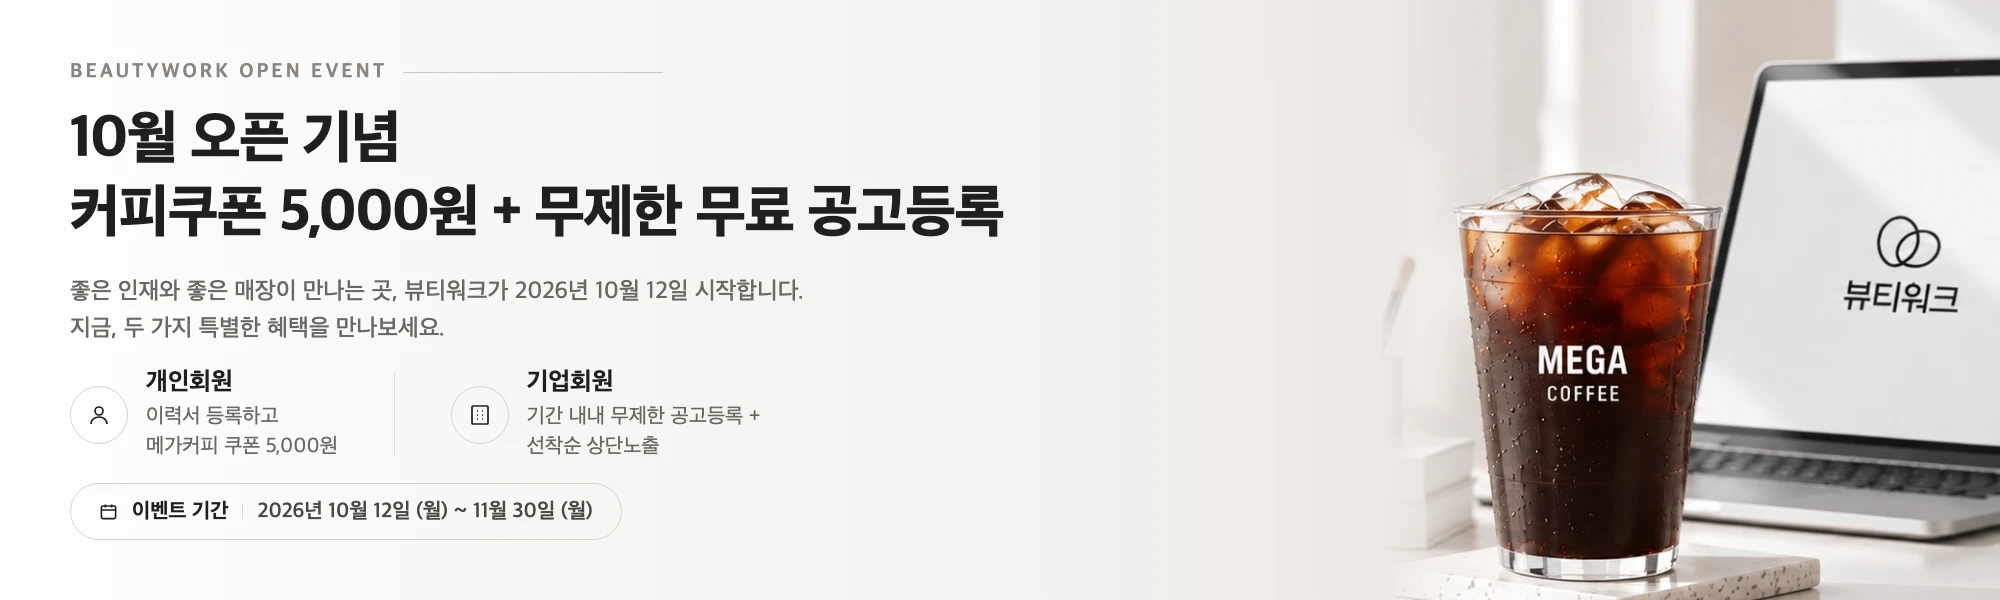
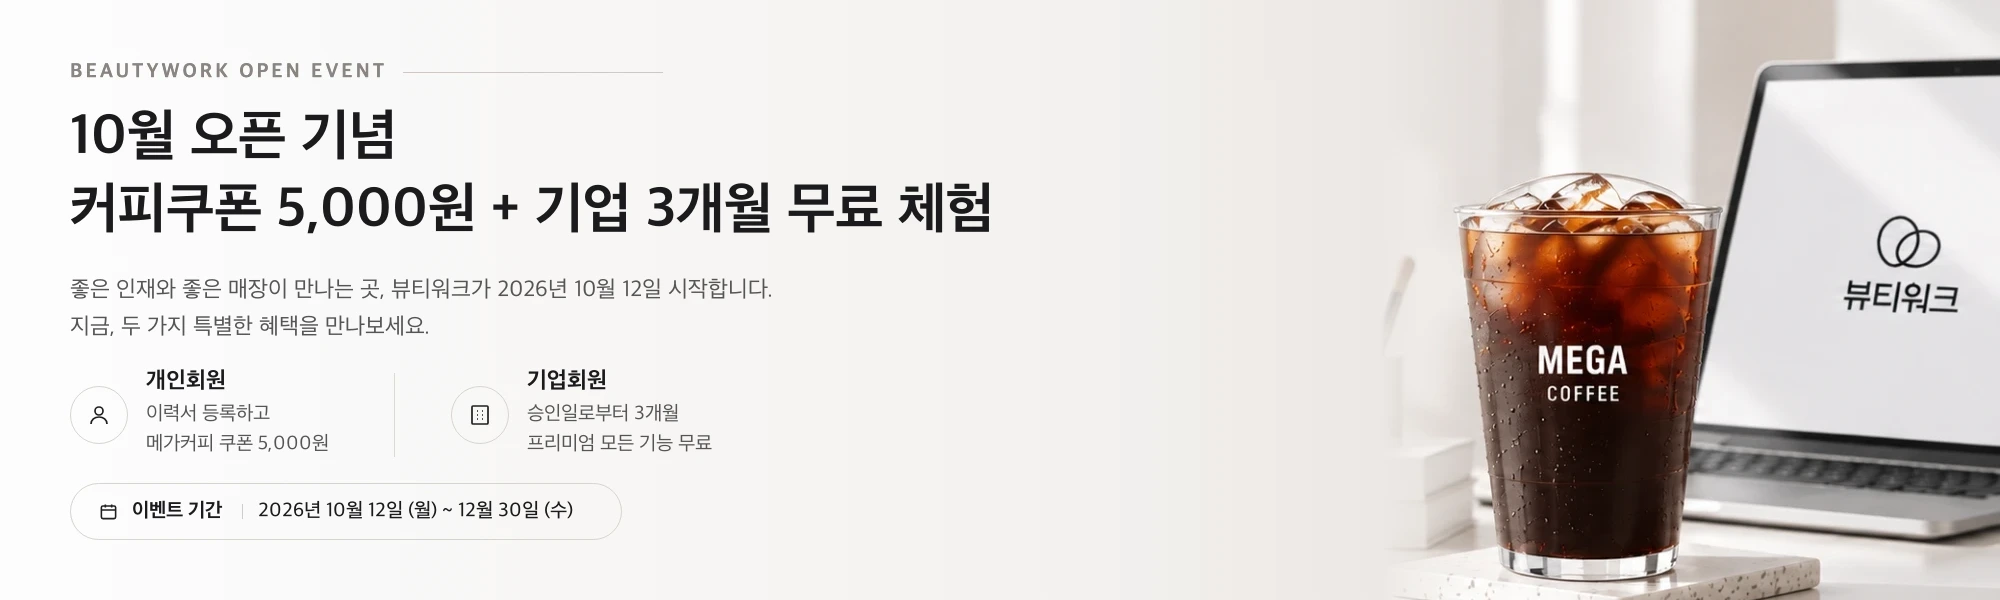
이벤트 문구·배너: 개인·기업 모두 12/30, 기업 승인일부터 3개월 프리미엄 무료, 모바일·PC 배너와 안내 화면 반영, 공지 이전값 백업

diff --git a/components/company/EventDetail.tsx b/components/company/EventDetail.tsx
@@ -31,8 +31,8 @@ const 목록자리 = { 위: 9.2, 높이: 14.8, 왼: 18.4, 오: 2.2 };
 
 const 참여 = [
   { Icon: UserPlus, 머리: "기업회원으로 가입합니다.", 글: "이벤트 기간 안에 가입하셔야 합니다." },
+  { Icon: CheckCircle2, 머리: "가입 승인을 받습니다.", 글: "신청은 따로 없습니다. 승인되는 날부터 혜택이 적용됩니다." },
   { Icon: FileText, 머리: "채용공고를 등록합니다.", 글: "건수 제한 없이 올리실 수 있습니다." },
-  { Icon: CheckCircle2, 머리: "신청은 따로 없습니다.", 글: "올리시는 순간 이벤트 혜택이 적용됩니다." },
 ];
 
 type 공지 = { id: string; title: string; target?: string | null };
@@ -155,8 +155,8 @@ export default function EventDetail({ 머리숨김 = false }: {
       <section className="ev-sec">
         <h3 className="ev-h">유의사항</h3>
         <ul className="pi-warn">
-          <li>이벤트 기간 안에 기업회원으로 가입하신 곳이 대상이에요. 가입 승인이 되면 바로 쓰실 수 있어요.</li>
-          <li>가입일로부터 3개월 동안 {플랜.PREMIUM.name} 상품의 모든 기능을 무료로 체험하실 수 있어요 — {스타트.name} 회원과 달리 건수 제한 없이 공고를 올리고, 인재 열람·제안·채팅도 쓰실 수 있어요.</li>
+          <li>이벤트 기간 안에 기업회원으로 가입하신 곳이 대상이에요. 가입 승인이 되면 그날부터 쓰실 수 있어요.</li>
+          <li>승인일로부터 3개월 동안 {플랜.PREMIUM.name} 상품의 모든 기능을 무료로 체험하실 수 있어요 — {스타트.name} 회원과 달리 건수 제한 없이 공고를 올리고, 인재 열람·제안·채팅도 쓰실 수 있어요.</li>
           <li>
             메인 채용관은 공고를 먼저 올리신 순서대로 {플랜.PREMIUM.name}관, {플랜.STANDARD.name}관 자리에 노출돼요.
             같은 관 안에서는 최근에 접속하신 곳이 앞에 와요.

diff --git a/components/HeroMobile.tsx b/components/HeroMobile.tsx
@@ -94,11 +94,11 @@ export default function HeroMobile() {
           <strong className="hero-m-banner-title">뷰티워크 10월 오픈 기념 이벤트</strong>
           <div className="hero-m-banner-desc">
             <div>무료 5,000원 커피쿠폰</div>
-            <div>무료 선착순 상단노출</div>
+            <div>기업회원 3개월 무료 체험</div>
           </div>
           <div className="hero-m-banner-period">
             <span>이벤트 기간</span>
-            <span>2026.10.12(월) ~ 11.30(월)</span>
+            <span>2026.10.12(월) ~ 12.30(수)</span>
             <span className="hero-m-banner-note">소진 시 조기 종료될 수 있습니다</span>
           </div>
         </div>

diff --git a/components/company/EventBand.tsx b/components/company/EventBand.tsx
@@ -59,7 +59,7 @@ export default function EventBand({ 받는쪽 = "company", 요금안내 = false 
       </Link>
       {요금안내 && (
         <p className="co-evtband-n">
-          이벤트 기간에 가입하시면 가입일로부터 3개월 동안 모든 기능을 무료로 체험하실 수 있어요.
+          이벤트 기간에 가입하시면 승인일로부터 3개월 동안 모든 기능을 무료로 체험하실 수 있어요.
           체험이 끝나면 무료 회원으로 돌아가며, 계속 쓰시려면 아래에서 신청하시면 돼요.
         </p>
       )}

diff --git a/components/support/StartGuide.tsx b/components/support/StartGuide.tsx
@@ -71,8 +71,8 @@ const 기업단계 = [
     더보기: "/support/faq?누구=기업",
   },
   {
-    Icon: CheckCircle2, 머리: "지금은 오픈 이벤트로 모두 무료예요",
-    글: "채용공고 등록·상단노출이 무제한 무료이고, 유료로 바뀌면 최소 30일 전에 알려드려요.",
+    Icon: CheckCircle2, 머리: "지금은 오픈 이벤트로 3개월 무료예요",
+    글: "가입 승인일부터 3개월 동안 프리미엄 기능을 모두 무료로 쓸 수 있고, 끝나도 자동 결제는 없어요.",
     더보기: "/notice",
   },
 ];
